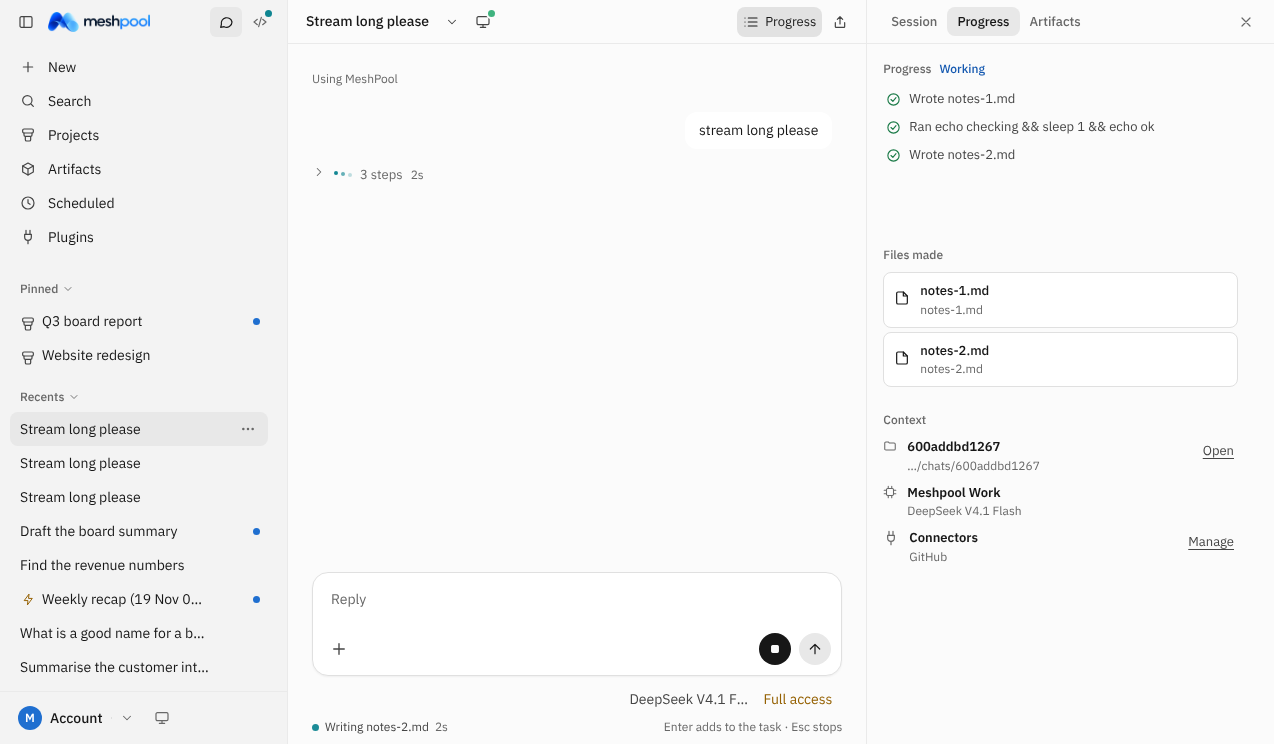
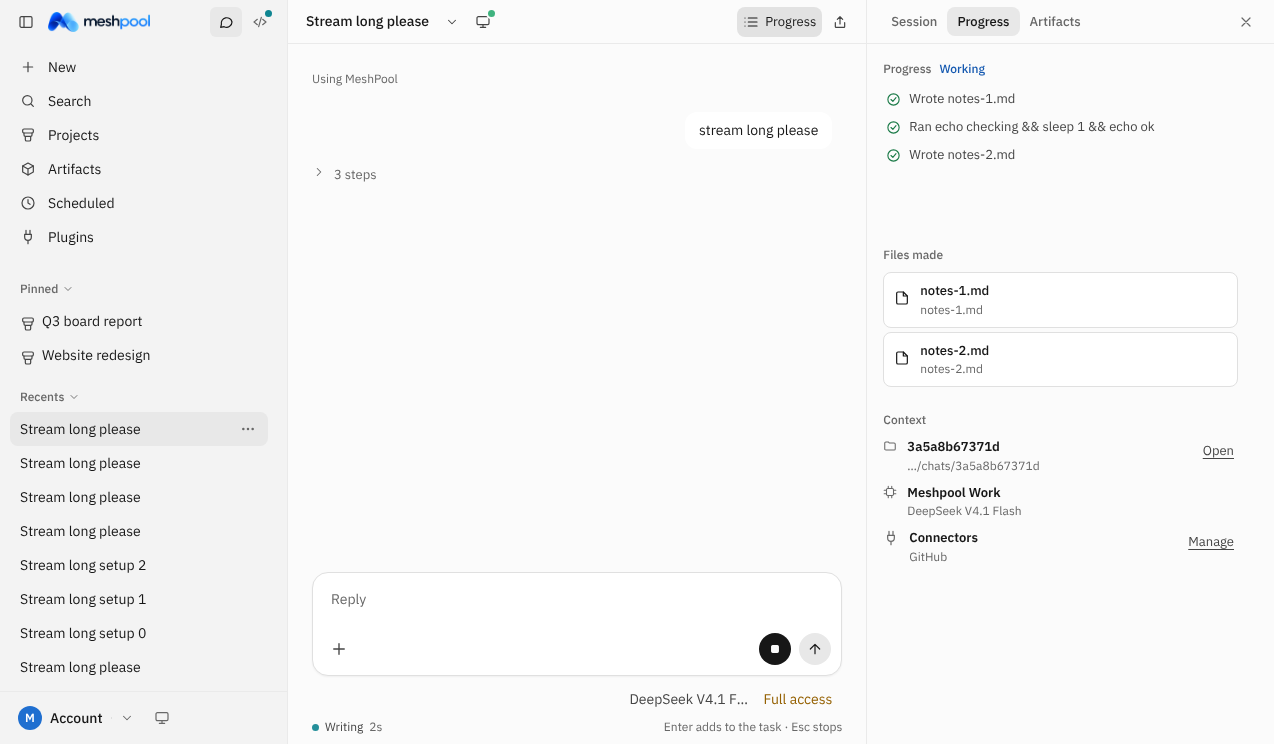
Progress panel: a running step's text went into the status dot's inner span (one word per line, overlapping Files made); text has its own element now
Claude-Session: https://claude.ai/code/session_01Pf4xaNU462mSs5RFgibs8S

diff --git a/app/meshpool_harness/ui/app.js b/app/meshpool_harness/ui/app.js
@@ -1406,8 +1406,8 @@ function progressUpdate() {
   if (!pr.items.length) { ol?.remove(); setHTML(box, `<div class="pnote" style="padding:4px 0">${busy ? "Getting started..." : "No steps yet for this task."}</div>`); }
   else {
     if (!ol) { box.innerHTML = ""; box._h = null; ol = document.createElement("ol"); ol.className = "stepl"; box.appendChild(ol); }
-    reconcile(ol, pr.items, it => it.key, it => { const li = document.createElement("li"); li.className = it.status; li.innerHTML = `${icon(it.status)}<span></span>`; $("span:last-child", li).textContent = it.text; li.dataset.st = it.status; return li; },
-      (li, it) => { if (li.dataset.st !== it.status) { li.dataset.st = it.status; li.className = it.status; $(".pi", li).outerHTML = icon(it.status); } setTxt(li.lastElementChild, it.text); });
+    reconcile(ol, pr.items, it => it.key, it => { const li = document.createElement("li"); li.className = it.status; li.innerHTML = `${icon(it.status)}<span class="stx"></span>`; $(".stx", li).textContent = it.text; li.dataset.st = it.status; return li; },
+      (li, it) => { if (li.dataset.st !== it.status) { li.dataset.st = it.status; li.className = it.status; $(".pi", li).outerHTML = icon(it.status); } setTxt($(".stx", li), it.text); });   // .stx: a running icon has its own inner span
   }
   const fbox = $("#pgFiles", body); let ul = $("ul", fbox);
   if (!outs.length) { ul?.remove(); setHTML(fbox, `<div class="pnote" style="padding:4px 0">Documents, sheets, decks and other files the task creates show up here.</div>`); }
